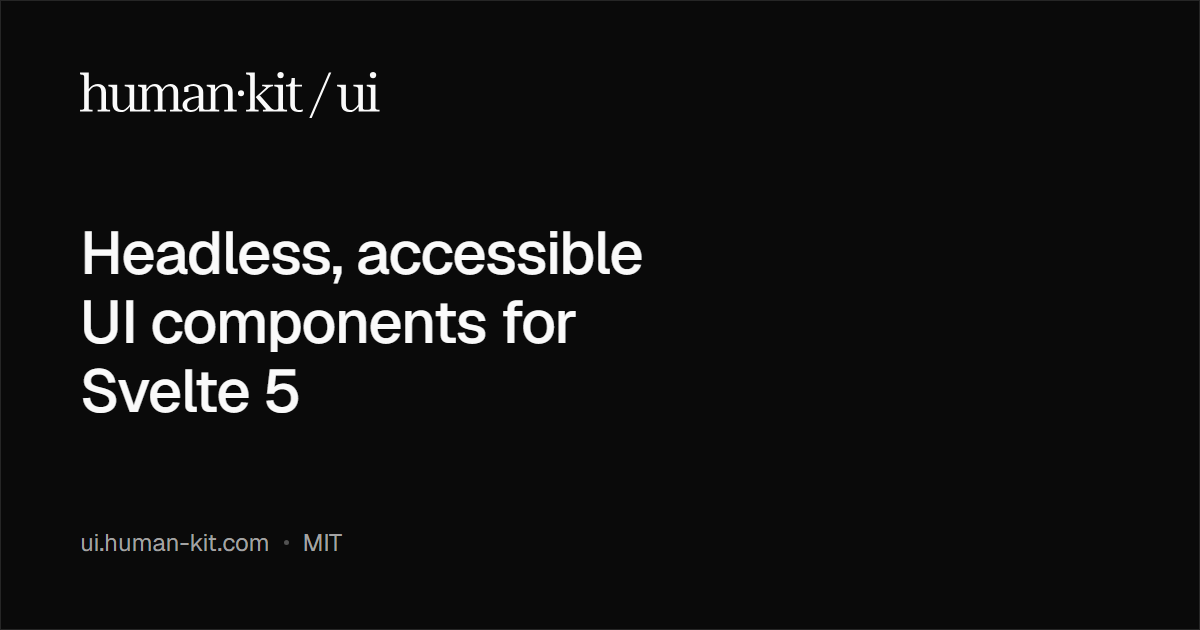
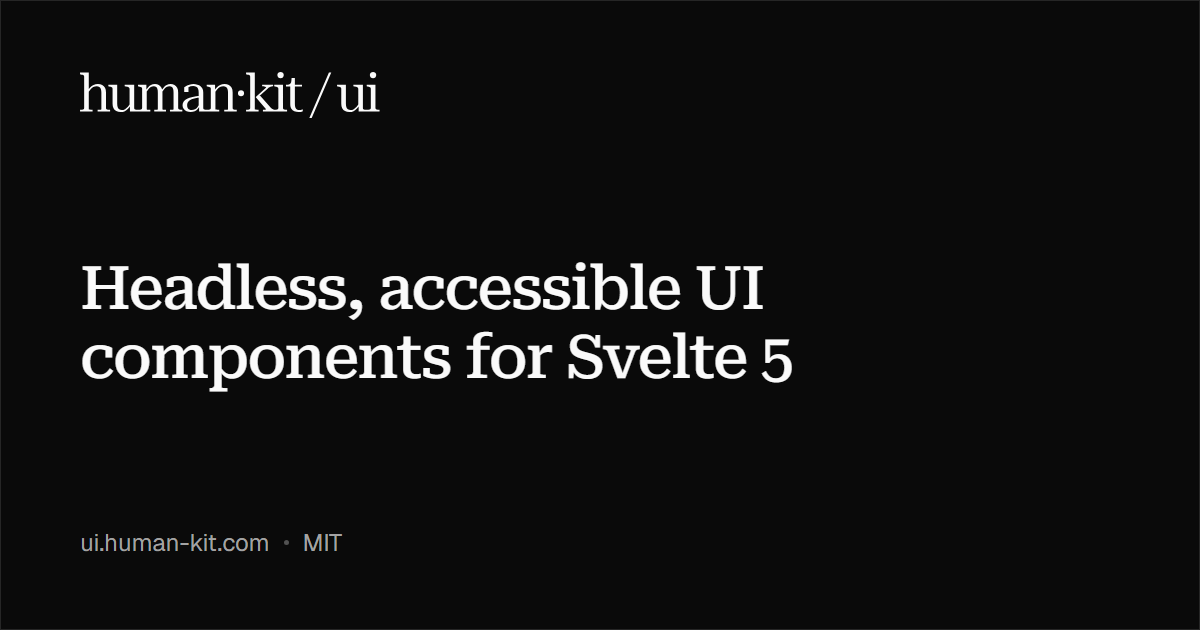
fix(docs): make the landing follow the site's own typography and elevation
Three things on the new landing page did not follow patterns that already
existed:

- Its headings were sans-serif and semibold, while every title on the site
  is the serif display face at weight 500. The prose heading rules now
  each carry an `hd-title-*` twin, so a page outside `.hd-prose` wears the
  same face, size and tracking without restating the values — and the two
  cannot drift. Spacing and `scroll-margin-top` stay on the `.hd-prose`
  selectors, since they belong to the prose flow.
- The header bar read as a lighter strip floating on the page: `Header`
  always rendered at the frame chrome's elevation, which is one step above
  a level-0 page. It now takes a `level`, and the landing passes 0.
- The social card's headline was sans too. `gen-og.mjs` embeds Roboto
  Serif alongside Geist and balances the line breaks, so "Svelte 5" is no
  longer stranded on a line of its own.

Changed region(s): [[0.0617, 0.3619, 0.6783, 0.6635]]

diff --git a/docs/src/routes/+page.svelte b/docs/src/routes/+page.svelte
@@ -44,7 +44,9 @@
 
 <Surface level={0} class="min-h-dvh [--frame-max:1536px]">
 	<div class="px-3 py-2 sm:px-8">
-		<Header title={packageName} githubUrl={GITHUB_URL}>
+		<!-- `level={0}`: this page is a level-0 surface, not the docs frame, so the
+		     bar has to sit at the page's own shade instead of one step above it. -->
+		<Header level={0} title={packageName} githubUrl={GITHUB_URL}>
 			{#snippet brand()}
 				<Logo class="h-4 w-auto" />
 			{/snippet}
@@ -68,7 +70,9 @@
 		     reader would search for. The wordmark is already in the header, so it
 		     does not repeat here. -->
 		<section class="pt-16 pb-14 sm:pt-24">
-			<h1 class="text-3xl leading-tight font-semibold text-balance text-foreground sm:text-4xl">
+			<!-- `hd-title-1` is the same serif face the docs pages give their h1 (see
+			     theme.css); the hero only scales it up on wider screens. -->
+			<h1 class="hd-title-1 leading-tight text-balance sm:text-4xl">
 				Headless, accessible UI components for Svelte 5
 			</h1>
 			<p class="mt-4 max-w-2xl text-base leading-relaxed text-muted-foreground">
@@ -93,7 +97,7 @@
 		</section>
 
 		<section aria-labelledby="why" class="border-t pt-12">
-			<h2 id="why" class="text-xl font-semibold text-foreground">Why another component library</h2>
+			<h2 id="why" class="hd-title-2">Why another component library</h2>
 			<dl class="mt-6 grid gap-x-8 gap-y-7 sm:grid-cols-2">
 				{#each pitch as item (item.title)}
 					<div>
@@ -105,7 +109,7 @@
 		</section>
 
 		<section aria-labelledby="components" class="mt-14 border-t pt-12">
-			<h2 id="components" class="text-xl font-semibold text-foreground">Documentation</h2>
+			<h2 id="components" class="hd-title-2">Documentation</h2>
 			<p class="mt-2 text-sm text-muted-foreground">
 				Every component, with live demos, a props table and the data attributes it exposes.
 			</p>

diff --git a/docs/src/lib/docs/theme.css b/docs/src/lib/docs/theme.css
@@ -343,31 +343,51 @@
 		font-family: var(--font-serif);
 	}
 
-	.hd-prose h1 {
-		font-size: 1.875rem;
+	/*
+	 * The three title looks, each paired with an `hd-title-*` class so a page
+	 * OUTSIDE prose — the landing — wears the same face, weight and tracking
+	 * without restating the values. Only the face/size/tracking is shared:
+	 * spacing and `scroll-margin-top` belong to the prose flow, so they stay on
+	 * the `.hd-prose` selectors alone.
+	 */
+	.hd-prose :is(h1, h2, h3),
+	:is(.hd-title-1, .hd-title-2, .hd-title-3) {
+		font-family: var(--font-serif);
 		font-weight: 500;
-		letter-spacing: -0.03em;
 		color: var(--foreground);
+	}
+
+	.hd-prose h1,
+	.hd-title-1 {
+		font-size: 1.875rem;
+		letter-spacing: -0.03em;
+	}
+
+	.hd-prose h1 {
 		scroll-margin-top: 5rem;
+	}
+
+	.hd-prose h2,
+	.hd-title-2 {
+		font-size: 1.25rem;
+		letter-spacing: -0.02em;
 	}
 
 	.hd-prose h2 {
 		margin-top: 2.5rem;
 		margin-bottom: 0.375rem;
-		font-size: 1.25rem;
-		font-weight: 500;
-		letter-spacing: -0.02em;
-		color: var(--foreground);
 		scroll-margin-top: 5rem;
+	}
+
+	.hd-prose h3,
+	.hd-title-3 {
+		font-size: 1.0625rem;
+		letter-spacing: -0.015em;
 	}
 
 	.hd-prose h3 {
 		margin-top: 1rem;
 		margin-bottom: 0.375rem;
-		font-size: 1.0625rem;
-		font-weight: 500;
-		letter-spacing: -0.015em;
-		color: var(--foreground);
 		scroll-margin-top: 5rem;
 	}
 

diff --git a/docs/src/lib/docs/components/header/header.svelte b/docs/src/lib/docs/components/header/header.svelte
@@ -11,6 +11,13 @@
 		badge?: string;
 		githubUrl?: string;
 		homeHref?: string;
+		/**
+		 * Elevation of the header bar. Defaults to the frame chrome's level, which
+		 * is what the docs want. A page that is not the frame — the landing — sits
+		 * at level 0, and passes 0 so the bar doesn't read as a lighter strip
+		 * floating on top of it.
+		 */
+		level?: number;
 		/** Replaces the default title + badge brand block (e.g. a logo). */
 		brand?: Snippet;
 		/** Rendered before the GitHub link and theme toggle. */
@@ -26,6 +33,7 @@
 		badge,
 		githubUrl,
 		homeHref,
+		level,
 		brand,
 		actions,
 		navTrigger,
@@ -36,7 +44,7 @@
 <!-- `githubUrl` is an external URL and `homeHref` is a caller-supplied override,
      so neither goes through SvelteKit's resolve() (which is for internal routes). -->
 <!-- eslint-disable svelte/no-navigation-without-resolve -->
-<Frame.Header>
+<Frame.Header {level}>
 	{#if navTrigger}
 		<!-- `-ml-1.5` cancels the row's left padding down to the same 6px the right
 		     cluster sits at, so the two triggers are equidistant from their edges. -->
